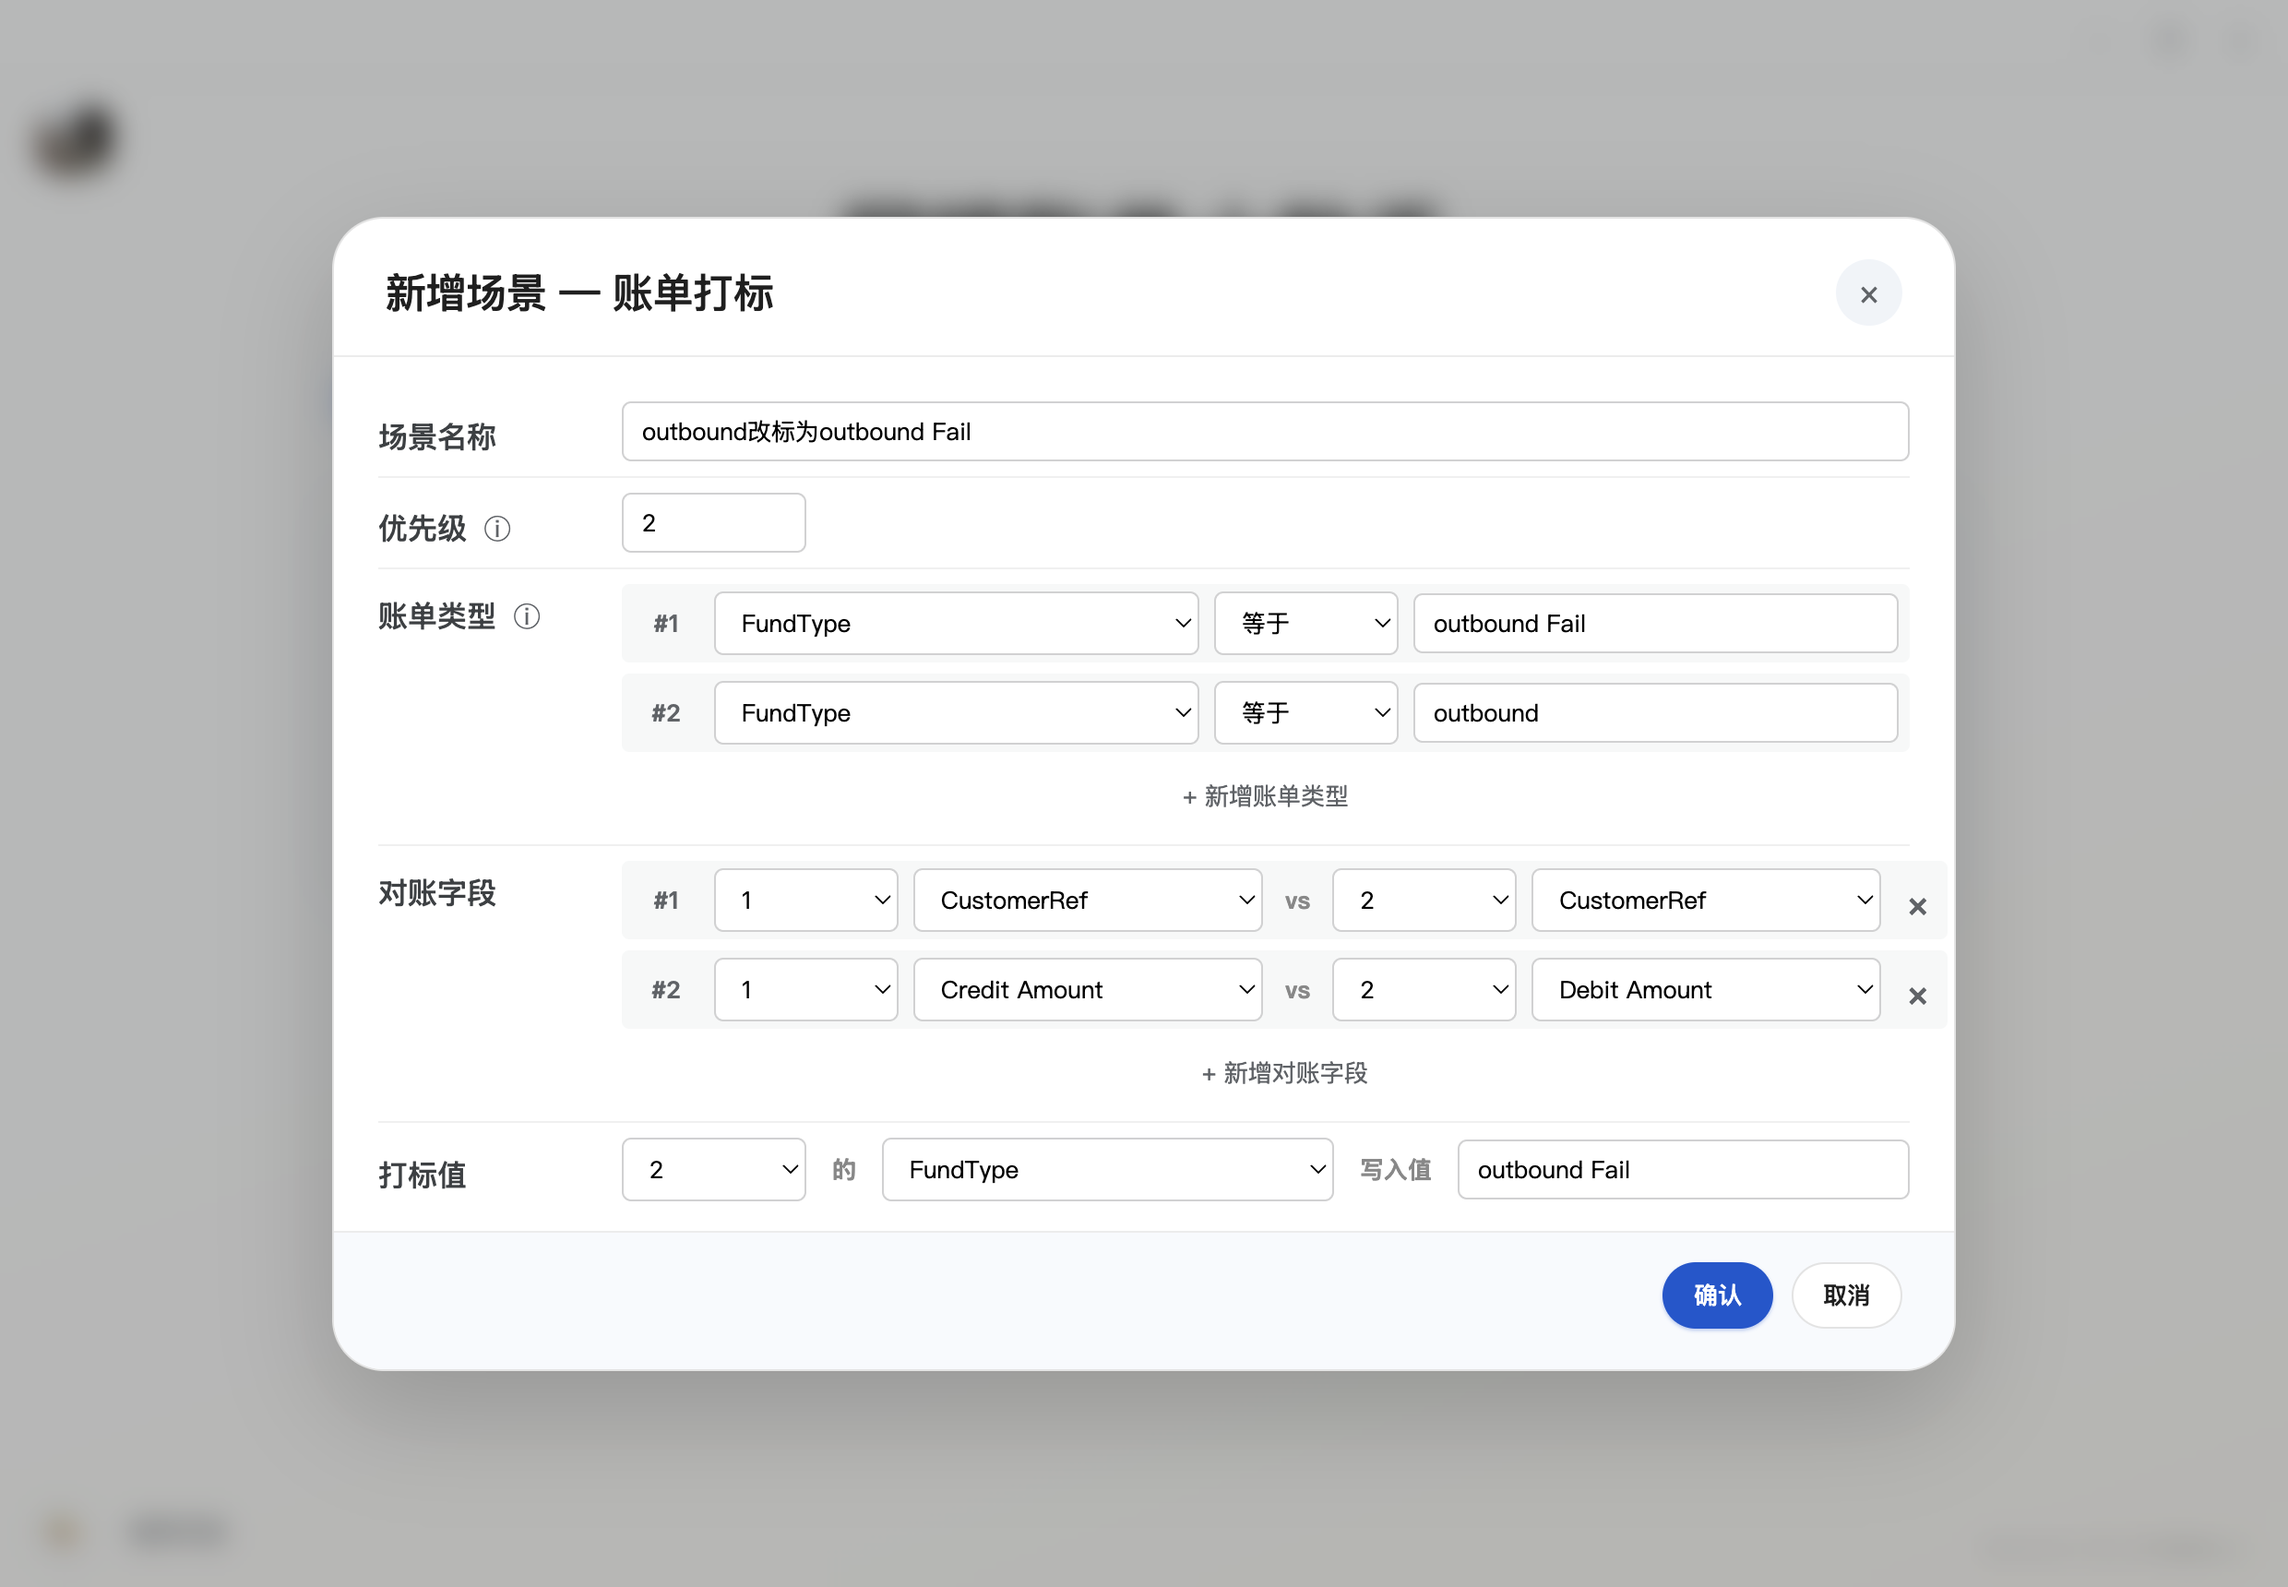
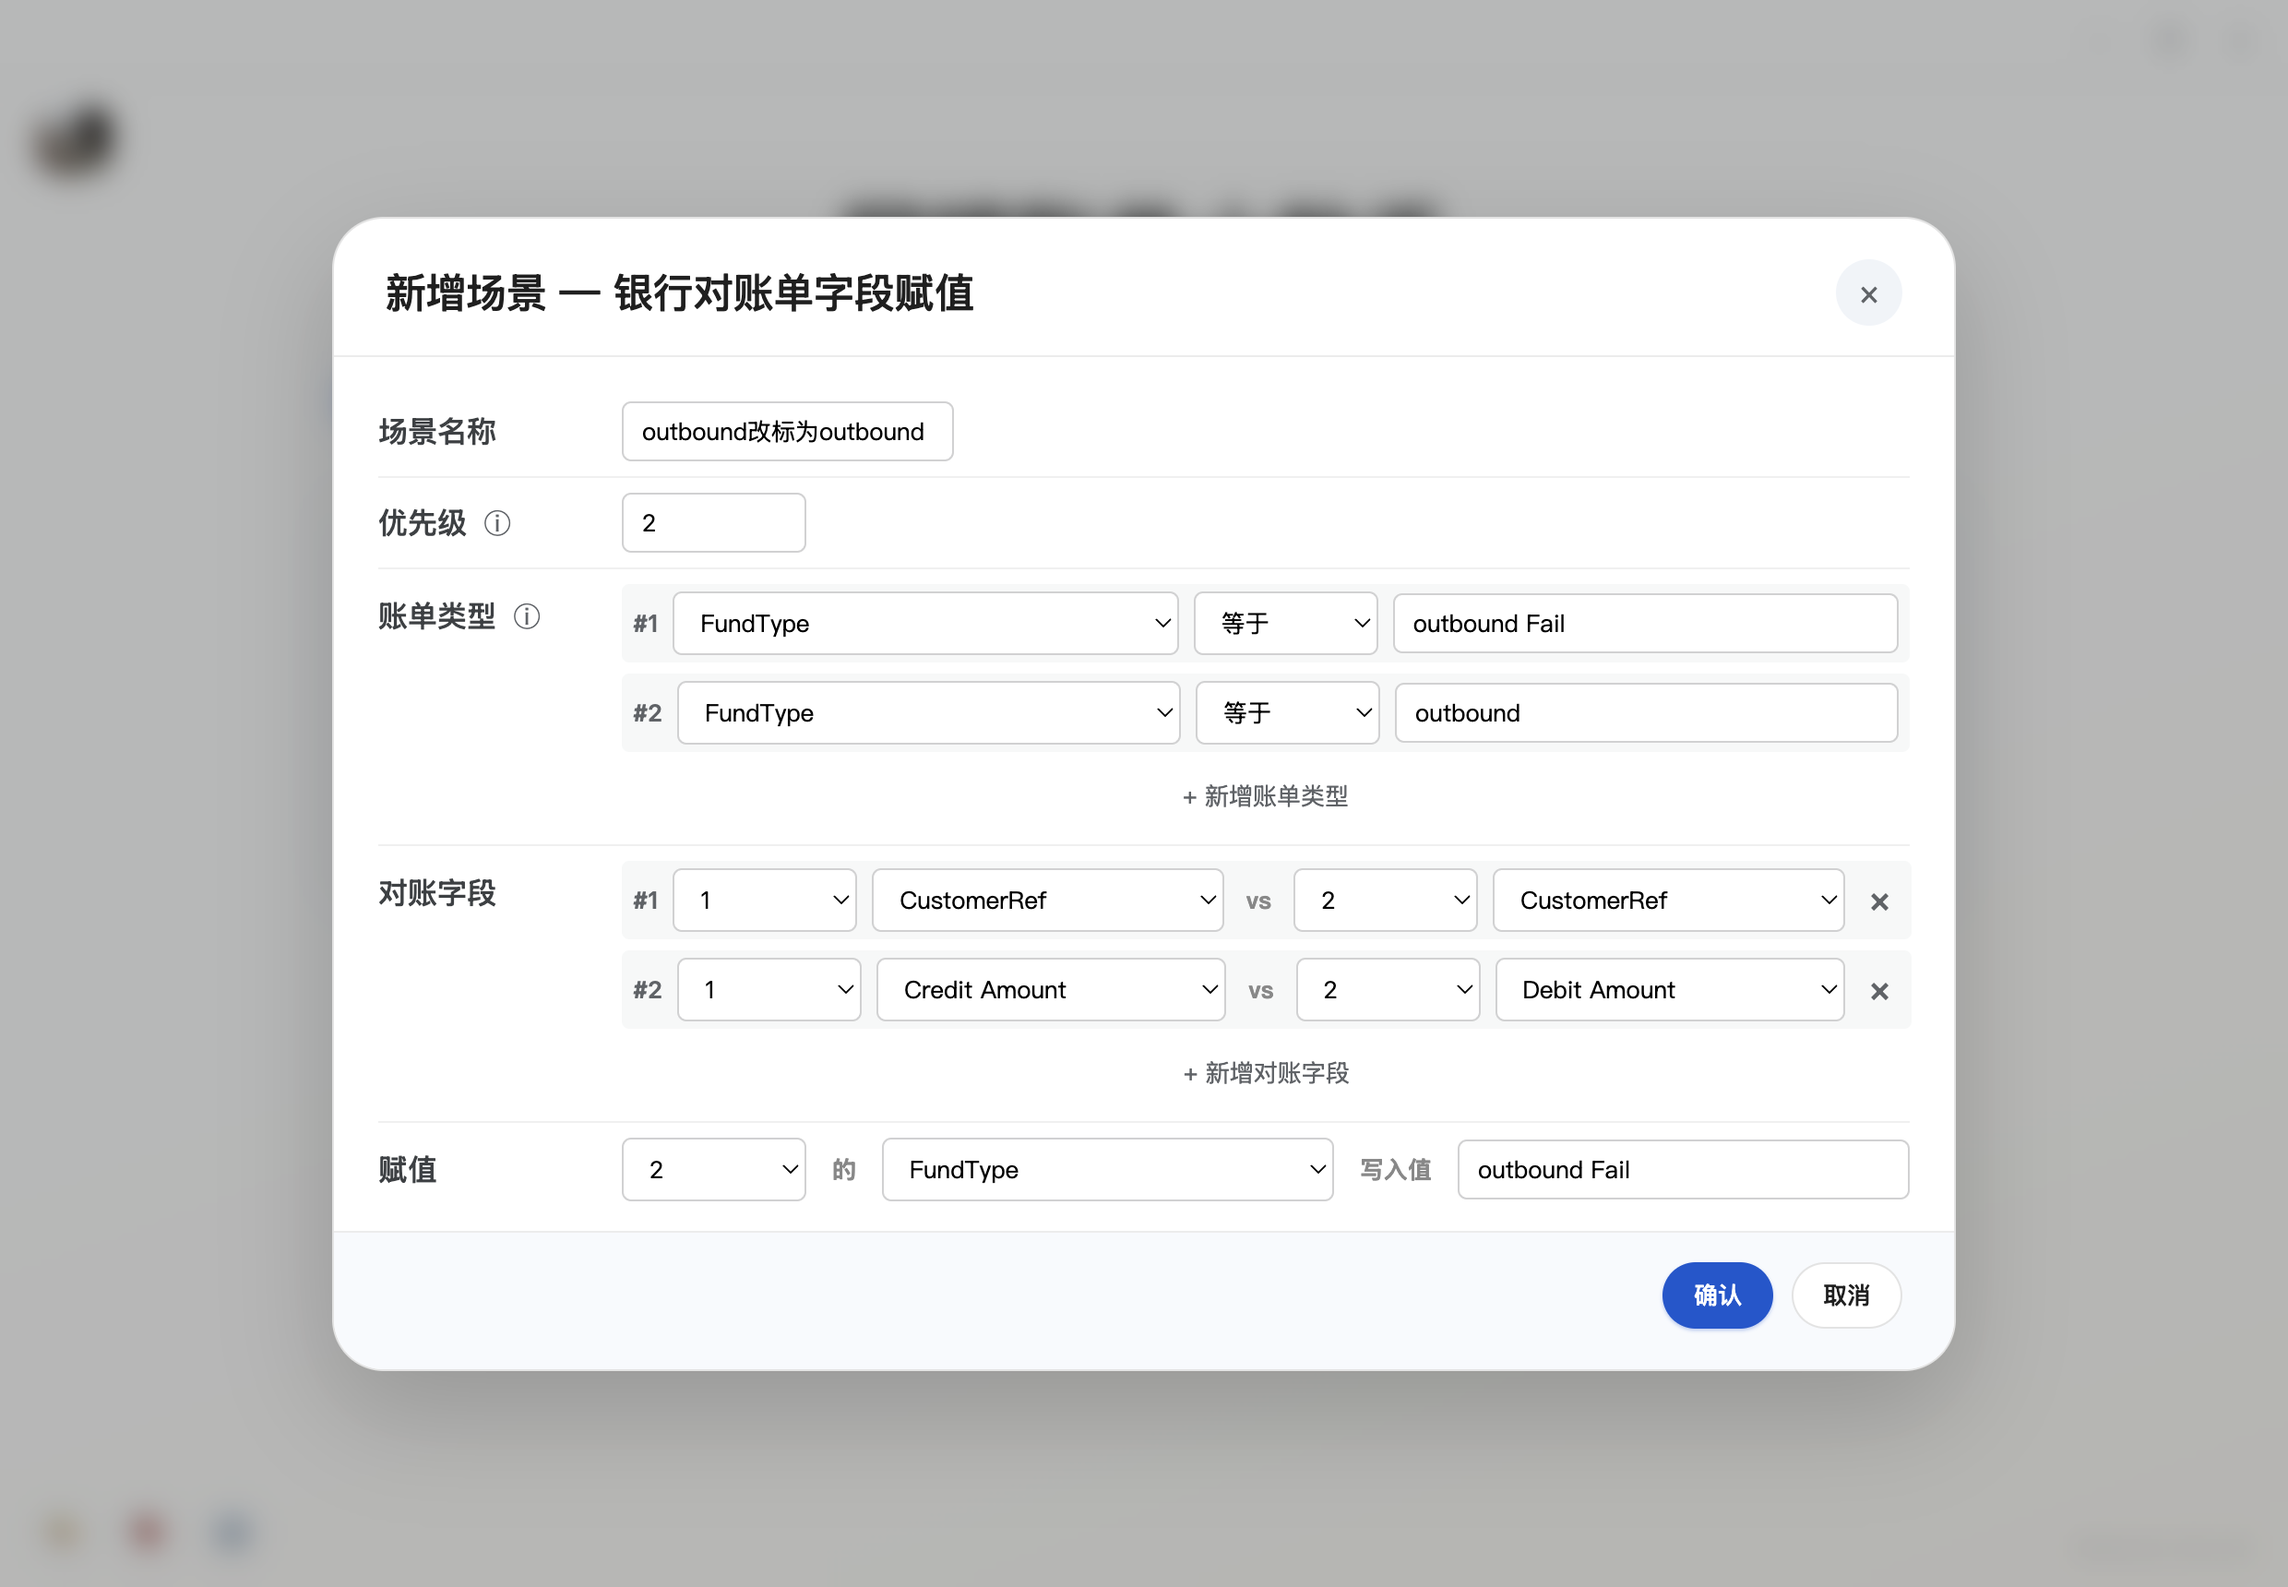
[v2.1.7] refactor(F4)!: 账单打标 → 银行对账单字段赋值 全量替换 + preview
src/renderer-dialogs.js（5 处）：
- L5392 SCENARIO_CATEGORY_LABELS['offset-bill-mark']: '账单打标' → '银行对账单字段赋值'
- L5641 ALL_CATEGORY_OPTIONS label: 同上
- L6650 dialog '打标值' label → '赋值'
- L6802 注释 '行 5 打标值' → '行 5 赋值'
- L7567 confirm 预览 '打标：' → '赋值：'

src/main-process/scenario-engines/c2-offset-bill-mark.js（2 处注释）：
- 顶部模块说明加 v2.1.7 F4 重命名注释
- '写打标值' 注释 → '写赋值'

docs/USER_GUIDE.md L553：
- '账单打标（C2）' 章节当前段改为 '银行对账单字段赋值（C2）'
- 同步描述 v2.1.7 校验放宽（≥ 1 类型 + 允许 0 对账字段）+ 无条件赋值衍生

不动（按 spec §5 / §5.10）：
- DB schema / category 字符串 'offset-bill-mark'
- migration 内置场景 category
- CHANGELOG.md / VERSION_FEATURE_HISTORY.md 历史段
- changes/ archives/ docs/iterations 内部文档自身描述

preview：scenario-config-c2.png 重跑确认新展示名 '银行对账单字段赋值' + '赋值' label 显示

spec §5.4 / §5.5 / §5.6 / §5.7 / §5.8 / §5.10

diff --git a/src/renderer-dialogs.js b/src/renderer-dialogs.js
@@ -5389,7 +5389,8 @@
     // 内置场景与用户场景同等地位（D14）：可删除可编辑
     const SCENARIO_CATEGORY_LABELS = {
       'extract-recon-id': '提取ReconId-From Self',
-      'offset-bill-mark': '账单打标',
+      // v2.1.7 F4：类别展示名重命名 — '账单打标' → '银行对账单字段赋值'（DB category 不变）
+      'offset-bill-mark': '银行对账单字段赋值',
       'gateway-recon-join': '提取ReconId-From 网关',
       // v2.1.0-beta.1 PR-A（task A6）：单据对账修复
       // v2.1.0-beta.3 修订（用户反馈）：'单据对账修复' → '单据对账单修复'
@@ -5638,7 +5639,7 @@
     function createScenarioCategorySelectDialog(allowedCategories = null) {
       const ALL_CATEGORY_OPTIONS = [
         { value: 'extract-recon-id', label: '提取ReconId-From Self' },
-        { value: 'offset-bill-mark', label: '账单打标' },
+        { value: 'offset-bill-mark', label: '银行对账单字段赋值' },
         { value: 'gateway-recon-join', label: '提取ReconId-From 网关' },
         { value: 'recon-id-fix', label: '单据对账 ReconID 修复' },
         { value: 'gateway-recon-id-fix', label: '网关对账单 ReconID 修复' }
@@ -6647,7 +6648,7 @@
             </div>
           </div>
           <div class="scenario-config-row">
-            <span class="scenario-config-label">打标值</span>
+            <span class="scenario-config-label">赋值</span>
             <div class="scenario-config-vs-row" data-mark-value-row></div>
           </div>
         </div>
@@ -6799,7 +6800,7 @@
         renderReconFields();
       });
 
-      // 行 5 打标值
+      // 行 5 赋值（v2.1.7 F4 重命名）
       markRow.addEventListener('change', (event) => {
         const ctl = event.target.closest('[data-mark-field]');
         if (!ctl) return;
@@ -7564,7 +7565,7 @@
         html += `<div class="scenario-confirm-detail-section"><span class="scenario-confirm-detail-label">账单类型：</span><ul>${(c.billTypes || []).map((bt) => `<li>#${bt.seq}：${escapeHtml(bt.field)} ${escapeHtml(bt.op)}${opNeedsValue(bt.op) ? ' ' + escapeHtml(String(bt.value || '')) : ''}</li>`).join('')}</ul></div>`;
         html += `<div class="scenario-confirm-detail-section"><span class="scenario-confirm-detail-label">对账字段：</span><ul>${(c.reconFields || []).map((r) => `<li>类型#${r.leftType} ${escapeHtml(r.leftField)} = 类型#${r.rightType} ${escapeHtml(r.rightField)}</li>`).join('')}</ul></div>`;
         const mv = c.markValue || {};
-        html += `<div class="scenario-confirm-detail-section"><span class="scenario-confirm-detail-label">打标：</span>类型#${mv.type} 的 ${escapeHtml(mv.field || '')} 写入 "${escapeHtml(String(mv.value || ''))}"</div>`;
+        html += `<div class="scenario-confirm-detail-section"><span class="scenario-confirm-detail-label">赋值：</span>类型#${mv.type} 的 ${escapeHtml(mv.field || '')} 写入 "${escapeHtml(String(mv.value || ''))}"</div>`;
       } else if (draft.category === 'gateway-recon-join') {
         // v2.1.5 N3：conditions 段（仅当 ≥ 1 行时渲染）
         const conds = Array.isArray(c.conditions) ? c.conditions : [];

diff --git a/src/main-process/scenario-engines/c2-offset-bill-mark.js b/src/main-process/scenario-engines/c2-offset-bill-mark.js
@@ -1,4 +1,4 @@
-// v2.0.0-beta.3：C2 冲销账单打标 算法引擎
+// v2.0.0-beta.3：C2 冲销账单打标 算法引擎（v2.1.7 F4 UI 展示名 → 银行对账单字段赋值）
 // PRD §7.2 / §10 决策 D3
 // v2.1.7 F4：UI 改名「账单打标」→「银行对账单字段赋值」（DB category 'offset-bill-mark' 不变）
 //   引擎校验放宽：billTypes < 2 → < 1；reconFields = 0 不再 return，走「衍生方案 A 无条件赋值」
@@ -160,7 +160,7 @@ function runC2Scenario(scenario, bankRows) {
     }
   });
 
-  // 写打标值（跳过被 blocked 的 rightRow）
+  // 写赋值（跳过被 blocked 的 rightRow）— v2.1.7 F4 注释术语更新
   // PRD §7.2：配对成功后 r1 + matched[0] 都被场景命中（→ first-match-wins 锁定），
   // 不论实际改字段的是哪一侧（Codex PR #31 F2 P1 修复）
   successfulPairs.forEach(({ leftRow, rightRow }) => {

diff --git a/docs/USER_GUIDE.md b/docs/USER_GUIDE.md
@@ -550,7 +550,7 @@
 
 1. **场景管理**：维护"场景"清单。每条场景属于 3 类之一：
    - **提取ReconId-From Self**（C1）：从银行对账单字段里按特征码 / 长度 / 其他字段值提取 `ReconciliationId`
-   - **账单打标**（C2）：双类型行（如 outbound Fail / outbound）按 CustomerRef + 金额配对，把 outbound 改标为 outbound Fail
+   - **银行对账单字段赋值**（C2）：账单类型 ≥ 1 行 + 对账字段允许 0 行；当 ≥ 2 类型 + ≥ 1 对账字段时走笛卡尔配对（如 outbound Fail / outbound 按 CustomerRef + 金额配对）；当 1 类型 + 0 对账字段时凡命中该类型的行直接写赋值（v2.1.7 F4 改名 + 校验放宽，原名"账单打标"）
    - **提取ReconId-From 网关**（C3）：与「资金对账不平结果表」按币种 + 金额 + MerchantId + Channel 4 字段 AND 匹配，把网关侧 reconciliationId 写入银行单
 2. **导入文件**：选择银行对账单 xlsx；表头列数 / 列名顺序严格校验，任一不符整批拒绝。导入成功后，**若启用了 C3 类场景且未导入资金对账不平结果表，会立即弹 confirmDialog 询问是否导入**。
 3. **开始运行**：按 `priority desc, id asc` 顺序执行所有启用的场景；**first-match-wins**——一行被高优先级场景锁定后，低优先级场景跳过该行；命中场景的 ID 显示在状态框 `（场景 1、3）`。
